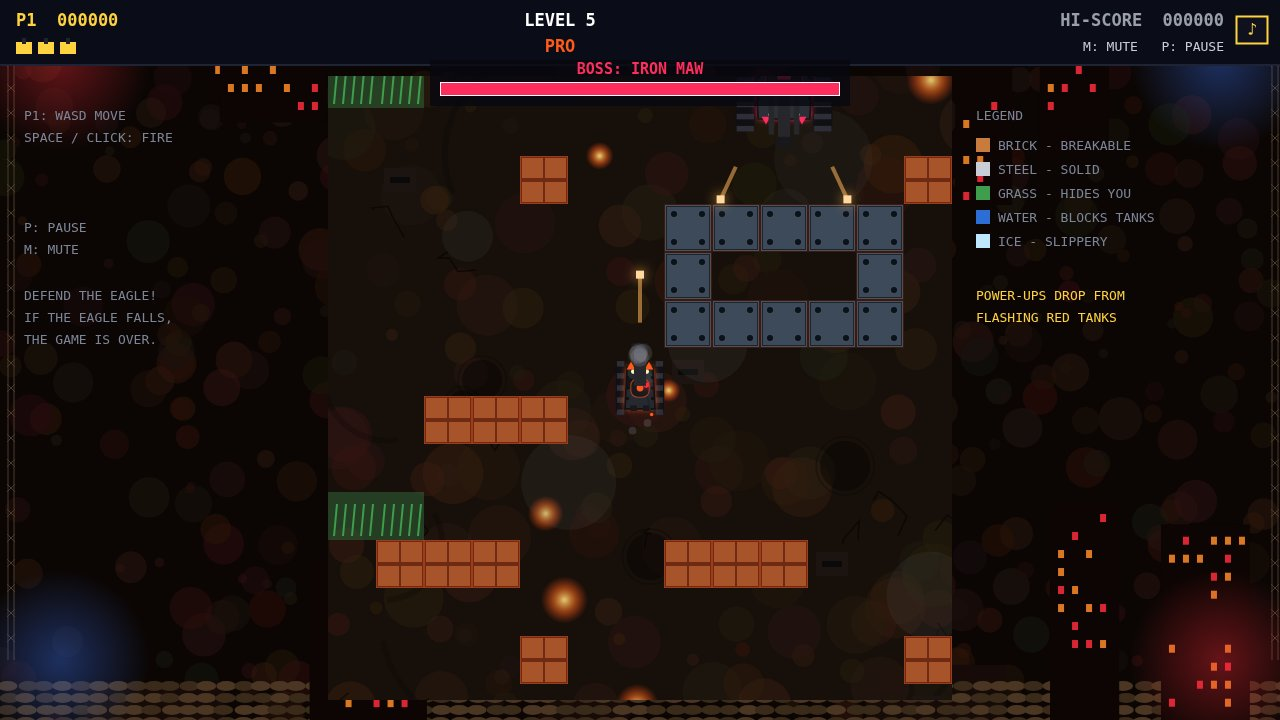
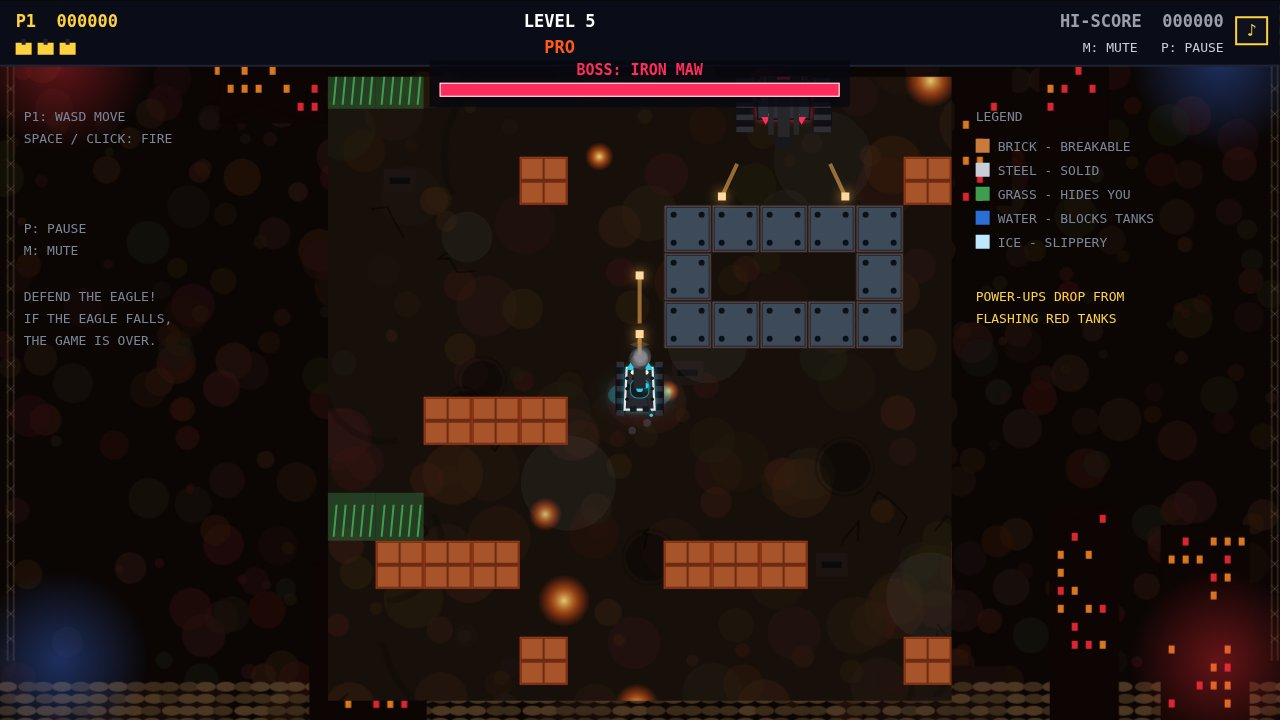
Fix shoot delay + player/enemy colors (Mana 17 Nov 13:05)

diff --git a/docs/src/draw.js b/docs/src/draw.js
@@ -216,6 +216,22 @@ export function drawTank(ctx, G, t) {
   const barrelCol = '#26262b';
   const barrelDark = '#17171c';
 
+  // PRO players: a thin BLUE GLOW under the tank (ground, unrotated).
+  // BLUE = player, always. Enemies never get it.
+  if (pro && t.side === 'player') {
+    ctx.save();
+    ctx.shadowColor = '#22d3ee';
+    ctx.shadowBlur = 16;
+    ctx.fillStyle = 'rgba(34,211,238,0.25)';
+    ctx.beginPath();
+    // Wide but flat: the glow must stick out past the tracks sideways
+    // (rx 0.72w) without reaching the barrel-probe radius below the tank
+    // (bottom edge y+0.14h+0.34h stays inside 24px).
+    ctx.ellipse(t.x, t.y + h * 0.14, w * 0.72, h * 0.34, 0, 0, Math.PI * 2);
+    ctx.fill();
+    ctx.restore();
+  }
+
   // Shadow: soft dark ellipse under the tank (unrotated, drawn first).
   ctx.save();
   ctx.fillStyle = 'rgba(0,0,0,0.35)';
@@ -284,6 +300,14 @@ export function drawTank(ctx, G, t) {
   ctx.strokeStyle = dark2;
   ctx.lineWidth = 1.5;
   ctx.stroke();
+  // Player-only: a thin WHITE OUTLINE around the whole tank, so the
+  // player's tank is identifiable at a glance. No enemy ever has it.
+  if (t.side === 'player') {
+    hullPath(ctx, bw, bh);
+    ctx.strokeStyle = 'rgba(255,255,255,0.9)';
+    ctx.lineWidth = 2;
+    ctx.stroke();
+  }
   // Bolts along the hull edges.
   ctx.fillStyle = dark2;
   for (const by of [-bh / 4, 0, bh / 4]) {
@@ -341,12 +365,41 @@ export function drawTank(ctx, G, t) {
   ctx.beginPath();
   ctx.arc(0, 0, w * 0.07, 0, Math.PI * 2);
   ctx.fill();
-  // PRO: red light on the turret.
-  if (pro) {
+  // Player-only markers (classic): a WHITE STAR on the turret + a small
+  // YELLOW light on the turret, so the player's tank reads instantly.
+  // No enemy ever has them.
+  if (!pro && t.side === 'player') {
     ctx.save();
-    ctx.shadowColor = '#ff2d3c';
+    ctx.fillStyle = '#ffffff';
+    ctx.shadowColor = '#ffffff';
+    ctx.shadowBlur = 4;
+    ctx.beginPath();
+    for (let i = 0; i < 10; i++) {
+      const a = -Math.PI / 2 + (i * Math.PI) / 5;
+      const r = i % 2 === 0 ? 7 : 3;
+      if (i === 0) ctx.moveTo(Math.cos(a) * r, Math.sin(a) * r);
+      else ctx.lineTo(Math.cos(a) * r, Math.sin(a) * r);
+    }
+    ctx.closePath();
+    ctx.fill();
+    ctx.restore();
+    ctx.save();
+    ctx.fillStyle = '#ffd23f';
+    ctx.shadowColor = '#ffd23f';
+    ctx.shadowBlur = 5;
+    ctx.beginPath();
+    ctx.arc(tw * 0.30, -tw * 0.30, 2.5, 0, Math.PI * 2);
+    ctx.fill();
+    ctx.restore();
+  }
+  // PRO: a light on the turret — CYAN for players (BLUE = player),
+  // RED for enemies and the boss (RED = enemy). Never reversed.
+  if (pro) {
+    const lightCol = t.side === 'player' ? '#22d3ee' : '#ff2d3c';
+    ctx.save();
+    ctx.shadowColor = lightCol;
     ctx.shadowBlur = 6;
-    ctx.fillStyle = '#ff2d3c';
+    ctx.fillStyle = lightCol;
     ctx.beginPath();
     ctx.arc(w * 0.13, -h * 0.06, 2.5, 0, Math.PI * 2);
     ctx.fill();

diff --git a/game/src/draw.js b/game/src/draw.js
@@ -216,6 +216,22 @@ export function drawTank(ctx, G, t) {
   const barrelCol = '#26262b';
   const barrelDark = '#17171c';
 
+  // PRO players: a thin BLUE GLOW under the tank (ground, unrotated).
+  // BLUE = player, always. Enemies never get it.
+  if (pro && t.side === 'player') {
+    ctx.save();
+    ctx.shadowColor = '#22d3ee';
+    ctx.shadowBlur = 16;
+    ctx.fillStyle = 'rgba(34,211,238,0.25)';
+    ctx.beginPath();
+    // Wide but flat: the glow must stick out past the tracks sideways
+    // (rx 0.72w) without reaching the barrel-probe radius below the tank
+    // (bottom edge y+0.14h+0.34h stays inside 24px).
+    ctx.ellipse(t.x, t.y + h * 0.14, w * 0.72, h * 0.34, 0, 0, Math.PI * 2);
+    ctx.fill();
+    ctx.restore();
+  }
+
   // Shadow: soft dark ellipse under the tank (unrotated, drawn first).
   ctx.save();
   ctx.fillStyle = 'rgba(0,0,0,0.35)';
@@ -284,6 +300,14 @@ export function drawTank(ctx, G, t) {
   ctx.strokeStyle = dark2;
   ctx.lineWidth = 1.5;
   ctx.stroke();
+  // Player-only: a thin WHITE OUTLINE around the whole tank, so the
+  // player's tank is identifiable at a glance. No enemy ever has it.
+  if (t.side === 'player') {
+    hullPath(ctx, bw, bh);
+    ctx.strokeStyle = 'rgba(255,255,255,0.9)';
+    ctx.lineWidth = 2;
+    ctx.stroke();
+  }
   // Bolts along the hull edges.
   ctx.fillStyle = dark2;
   for (const by of [-bh / 4, 0, bh / 4]) {
@@ -341,12 +365,41 @@ export function drawTank(ctx, G, t) {
   ctx.beginPath();
   ctx.arc(0, 0, w * 0.07, 0, Math.PI * 2);
   ctx.fill();
-  // PRO: red light on the turret.
-  if (pro) {
+  // Player-only markers (classic): a WHITE STAR on the turret + a small
+  // YELLOW light on the turret, so the player's tank reads instantly.
+  // No enemy ever has them.
+  if (!pro && t.side === 'player') {
     ctx.save();
-    ctx.shadowColor = '#ff2d3c';
+    ctx.fillStyle = '#ffffff';
+    ctx.shadowColor = '#ffffff';
+    ctx.shadowBlur = 4;
+    ctx.beginPath();
+    for (let i = 0; i < 10; i++) {
+      const a = -Math.PI / 2 + (i * Math.PI) / 5;
+      const r = i % 2 === 0 ? 7 : 3;
+      if (i === 0) ctx.moveTo(Math.cos(a) * r, Math.sin(a) * r);
+      else ctx.lineTo(Math.cos(a) * r, Math.sin(a) * r);
+    }
+    ctx.closePath();
+    ctx.fill();
+    ctx.restore();
+    ctx.save();
+    ctx.fillStyle = '#ffd23f';
+    ctx.shadowColor = '#ffd23f';
+    ctx.shadowBlur = 5;
+    ctx.beginPath();
+    ctx.arc(tw * 0.30, -tw * 0.30, 2.5, 0, Math.PI * 2);
+    ctx.fill();
+    ctx.restore();
+  }
+  // PRO: a light on the turret — CYAN for players (BLUE = player),
+  // RED for enemies and the boss (RED = enemy). Never reversed.
+  if (pro) {
+    const lightCol = t.side === 'player' ? '#22d3ee' : '#ff2d3c';
+    ctx.save();
+    ctx.shadowColor = lightCol;
     ctx.shadowBlur = 6;
-    ctx.fillStyle = '#ff2d3c';
+    ctx.fillStyle = lightCol;
     ctx.beginPath();
     ctx.arc(w * 0.13, -h * 0.06, 2.5, 0, Math.PI * 2);
     ctx.fill();

diff --git a/docs/src/enemy.js b/docs/src/enemy.js
@@ -6,11 +6,13 @@ import { makeTank, solidForTank } from './tank.js';
 
 // Realistic colors: classic = army/desert tones; PRO = black metallic
 // with red/orange fire accents (darker, spikier, menacing).
+// CLASSIC enemies are DARK and DULL — clearly darker than the bright
+// army-green players (#6fae3f). No enemy has a star or a white outline.
 export const ENEMY_TYPES = {
-  basic: { hp: 1, speed: 60, bullet: 220, score: 100, color: '#4a5a44', color2: '#6b7d5e', proColor: '#23232c', proColor2: '#ff3b30' },
-  fast: { hp: 1, speed: 110, bullet: 240, score: 200, color: '#b89a5e', color2: '#d8c08a', proColor: '#2a2a24', proColor2: '#ff8c1a' },
-  power: { hp: 3, speed: 50, bullet: 240, score: 300, color: '#6e2f1e', color2: '#a85438', proColor: '#2c1c1c', proColor2: '#ff2d3c' },
-  big: { hp: 2, speed: 40, bullet: 220, score: 500, color: '#4a4d52', color2: '#7d838c', proColor: '#1a1a1e', proColor2: '#ff3b30' },
+  basic: { hp: 1, speed: 60, bullet: 220, score: 100, color: '#3a4438', color2: '#4c5744', proColor: '#23232c', proColor2: '#ff3b30' },
+  fast: { hp: 1, speed: 110, bullet: 240, score: 200, color: '#8a7a52', color2: '#6e6040', proColor: '#2a2a24', proColor2: '#ff8c1a' },
+  power: { hp: 3, speed: 50, bullet: 240, score: 300, color: '#5e2a1c', color2: '#4a2318', proColor: '#2c1c1c', proColor2: '#ff2d3c' },
+  big: { hp: 2, speed: 40, bullet: 220, score: 500, color: '#3c3f45', color2: '#2f3237', proColor: '#1a1a1e', proColor2: '#ff3b30' },
 };
 
 export function spawnInterval(level) {

diff --git a/game/src/enemy.js b/game/src/enemy.js
@@ -6,11 +6,13 @@ import { makeTank, solidForTank } from './tank.js';
 
 // Realistic colors: classic = army/desert tones; PRO = black metallic
 // with red/orange fire accents (darker, spikier, menacing).
+// CLASSIC enemies are DARK and DULL — clearly darker than the bright
+// army-green players (#6fae3f). No enemy has a star or a white outline.
 export const ENEMY_TYPES = {
-  basic: { hp: 1, speed: 60, bullet: 220, score: 100, color: '#4a5a44', color2: '#6b7d5e', proColor: '#23232c', proColor2: '#ff3b30' },
-  fast: { hp: 1, speed: 110, bullet: 240, score: 200, color: '#b89a5e', color2: '#d8c08a', proColor: '#2a2a24', proColor2: '#ff8c1a' },
-  power: { hp: 3, speed: 50, bullet: 240, score: 300, color: '#6e2f1e', color2: '#a85438', proColor: '#2c1c1c', proColor2: '#ff2d3c' },
-  big: { hp: 2, speed: 40, bullet: 220, score: 500, color: '#4a4d52', color2: '#7d838c', proColor: '#1a1a1e', proColor2: '#ff3b30' },
+  basic: { hp: 1, speed: 60, bullet: 220, score: 100, color: '#3a4438', color2: '#4c5744', proColor: '#23232c', proColor2: '#ff3b30' },
+  fast: { hp: 1, speed: 110, bullet: 240, score: 200, color: '#8a7a52', color2: '#6e6040', proColor: '#2a2a24', proColor2: '#ff8c1a' },
+  power: { hp: 3, speed: 50, bullet: 240, score: 300, color: '#5e2a1c', color2: '#4a2318', proColor: '#2c1c1c', proColor2: '#ff2d3c' },
+  big: { hp: 2, speed: 40, bullet: 220, score: 500, color: '#3c3f45', color2: '#2f3237', proColor: '#1a1a1e', proColor2: '#ff3b30' },
 };
 
 export function spawnInterval(level) {

diff --git a/docs/src/main.js b/docs/src/main.js
@@ -88,12 +88,15 @@ const G = {
 
 function playerColor(n) {
   if (G.mode === 'pro') return n === 1 ? '#26292f' : '#2a2d33';
-  return n === 1 ? '#5c7a3a' : '#6b7a5e';
+  // CLASSIC players: BRIGHT army green — clearly brighter than any enemy.
+  return '#6fae3f';
 }
 
 function playerTrim(n) {
-  if (G.mode === 'pro') return n === 1 ? '#ff5a1a' : '#ff2d3c';
-  return n === 1 ? '#8a9a5b' : '#a8c8e0';
+  // PRO players: BRIGHT BLUE CYAN accents. BLUE = player, always.
+  if (G.mode === 'pro') return n === 1 ? '#22d3ee' : '#4df3ff';
+  // CLASSIC players: white trim (P1) / pale-blue trim (P2).
+  return n === 1 ? '#ffffff' : '#a8c8e0';
 }
 
 function makePlayerTank(n) {
@@ -678,7 +681,7 @@ function initDemo() {
   G.camX = 0;
   G.camY = 0;
   G.demoGrid = Array.from({ length: 19 }, () => Array(19).fill('.'));
-  const colors = ['#5c7a3a', '#b89a5e', '#4a4d52'];
+  const colors = ['#3a4438', '#8a7a52', '#3c3f45'];
   G.demoTanks = [];
   for (let i = 0; i < 3; i++) {
     const t = makeTank({

diff --git a/game/src/main.js b/game/src/main.js
@@ -88,12 +88,15 @@ const G = {
 
 function playerColor(n) {
   if (G.mode === 'pro') return n === 1 ? '#26292f' : '#2a2d33';
-  return n === 1 ? '#5c7a3a' : '#6b7a5e';
+  // CLASSIC players: BRIGHT army green — clearly brighter than any enemy.
+  return '#6fae3f';
 }
 
 function playerTrim(n) {
-  if (G.mode === 'pro') return n === 1 ? '#ff5a1a' : '#ff2d3c';
-  return n === 1 ? '#8a9a5b' : '#a8c8e0';
+  // PRO players: BRIGHT BLUE CYAN accents. BLUE = player, always.
+  if (G.mode === 'pro') return n === 1 ? '#22d3ee' : '#4df3ff';
+  // CLASSIC players: white trim (P1) / pale-blue trim (P2).
+  return n === 1 ? '#ffffff' : '#a8c8e0';
 }
 
 function makePlayerTank(n) {
@@ -678,7 +681,7 @@ function initDemo() {
   G.camX = 0;
   G.camY = 0;
   G.demoGrid = Array.from({ length: 19 }, () => Array(19).fill('.'));
-  const colors = ['#5c7a3a', '#b89a5e', '#4a4d52'];
+  const colors = ['#3a4438', '#8a7a52', '#3c3f45'];
   G.demoTanks = [];
   for (let i = 0; i < 3; i++) {
     const t = makeTank({

diff --git a/docs/src/tank.js b/docs/src/tank.js
@@ -143,11 +143,14 @@ export function snapTurn(t, newDir) {
 }
 
 // Bullet stats for a player tank at its star level.
+// Base max is 2 (was 1): with max 1, one missed shot locked the player
+// out for the bullet's whole flight (up to ~2.8 s across the map) —
+// the 0.18 s cooldown never got a chance to matter. Cooldown stays 0.18 s.
 export function playerBulletStats(t) {
-  if (t.star >= 3) return { speed: 480, max: 2, steel: true };
-  if (t.star >= 2) return { speed: 420, max: 2, steel: false };
-  if (t.star >= 1) return { speed: 420, max: 1, steel: false };
-  return { speed: 320, max: 1, steel: false };
+  if (t.star >= 3) return { speed: 480, max: 3, steel: true };
+  if (t.star >= 2) return { speed: 420, max: 3, steel: false };
+  if (t.star >= 1) return { speed: 420, max: 2, steel: false };
+  return { speed: 320, max: 2, steel: false };
 }
 
 // Can this tank fire right now (active-bullet limit + cooldown)?

diff --git a/game/src/tank.js b/game/src/tank.js
@@ -143,11 +143,14 @@ export function snapTurn(t, newDir) {
 }
 
 // Bullet stats for a player tank at its star level.
+// Base max is 2 (was 1): with max 1, one missed shot locked the player
+// out for the bullet's whole flight (up to ~2.8 s across the map) —
+// the 0.18 s cooldown never got a chance to matter. Cooldown stays 0.18 s.
 export function playerBulletStats(t) {
-  if (t.star >= 3) return { speed: 480, max: 2, steel: true };
-  if (t.star >= 2) return { speed: 420, max: 2, steel: false };
-  if (t.star >= 1) return { speed: 420, max: 1, steel: false };
-  return { speed: 320, max: 1, steel: false };
+  if (t.star >= 3) return { speed: 480, max: 3, steel: true };
+  if (t.star >= 2) return { speed: 420, max: 3, steel: false };
+  if (t.star >= 1) return { speed: 420, max: 2, steel: false };
+  return { speed: 320, max: 2, steel: false };
 }
 
 // Can this tank fire right now (active-bullet limit + cooldown)?
